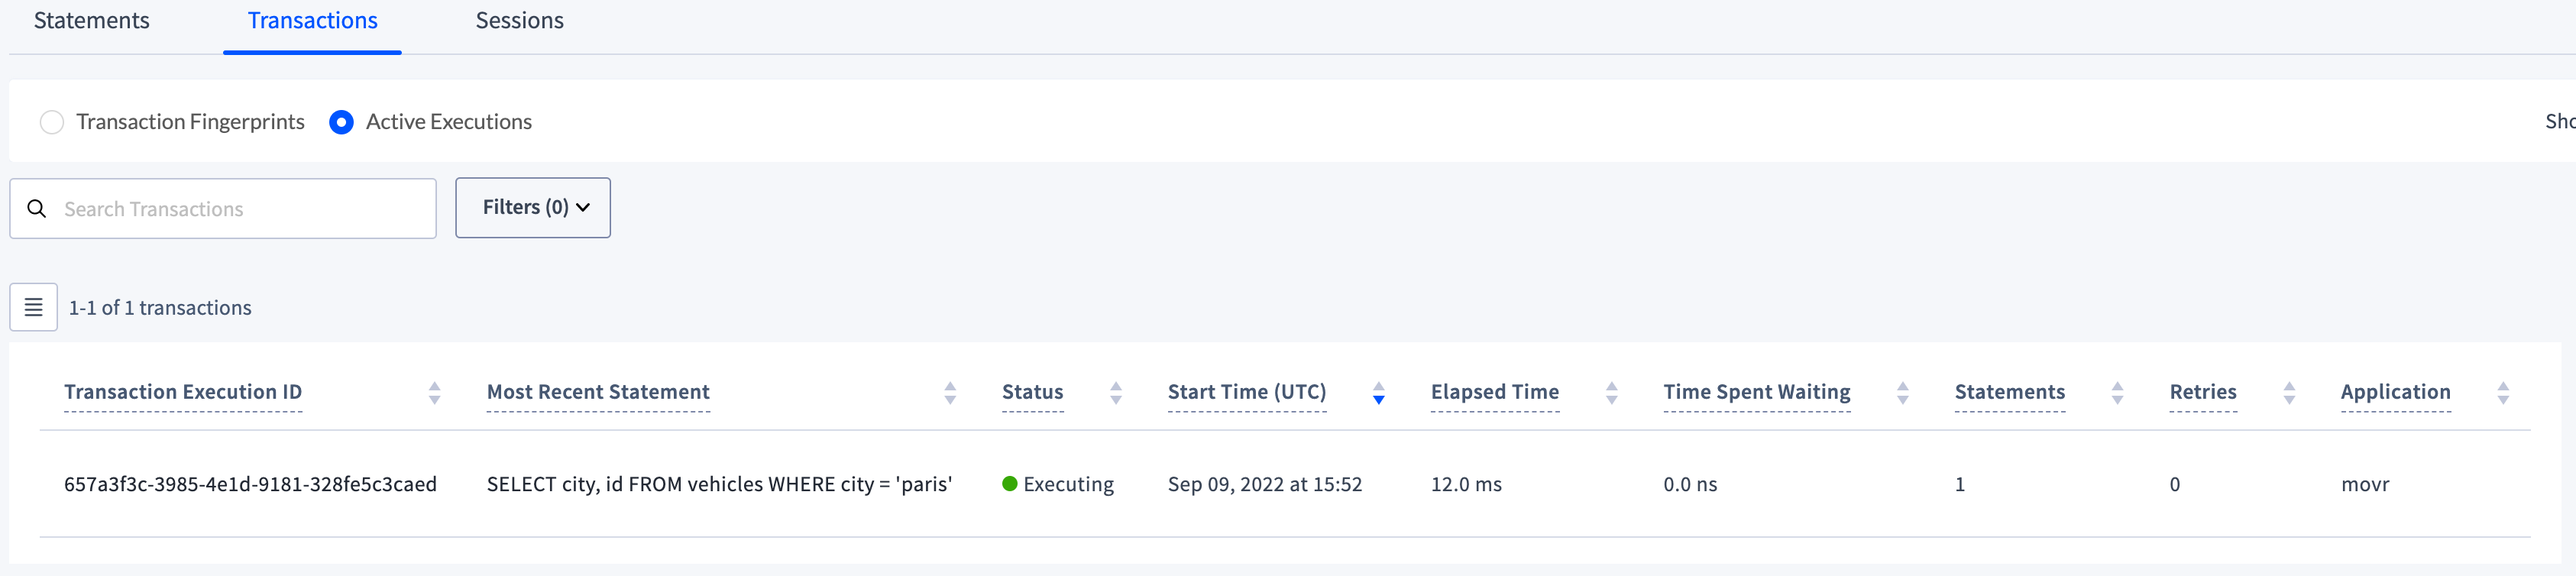
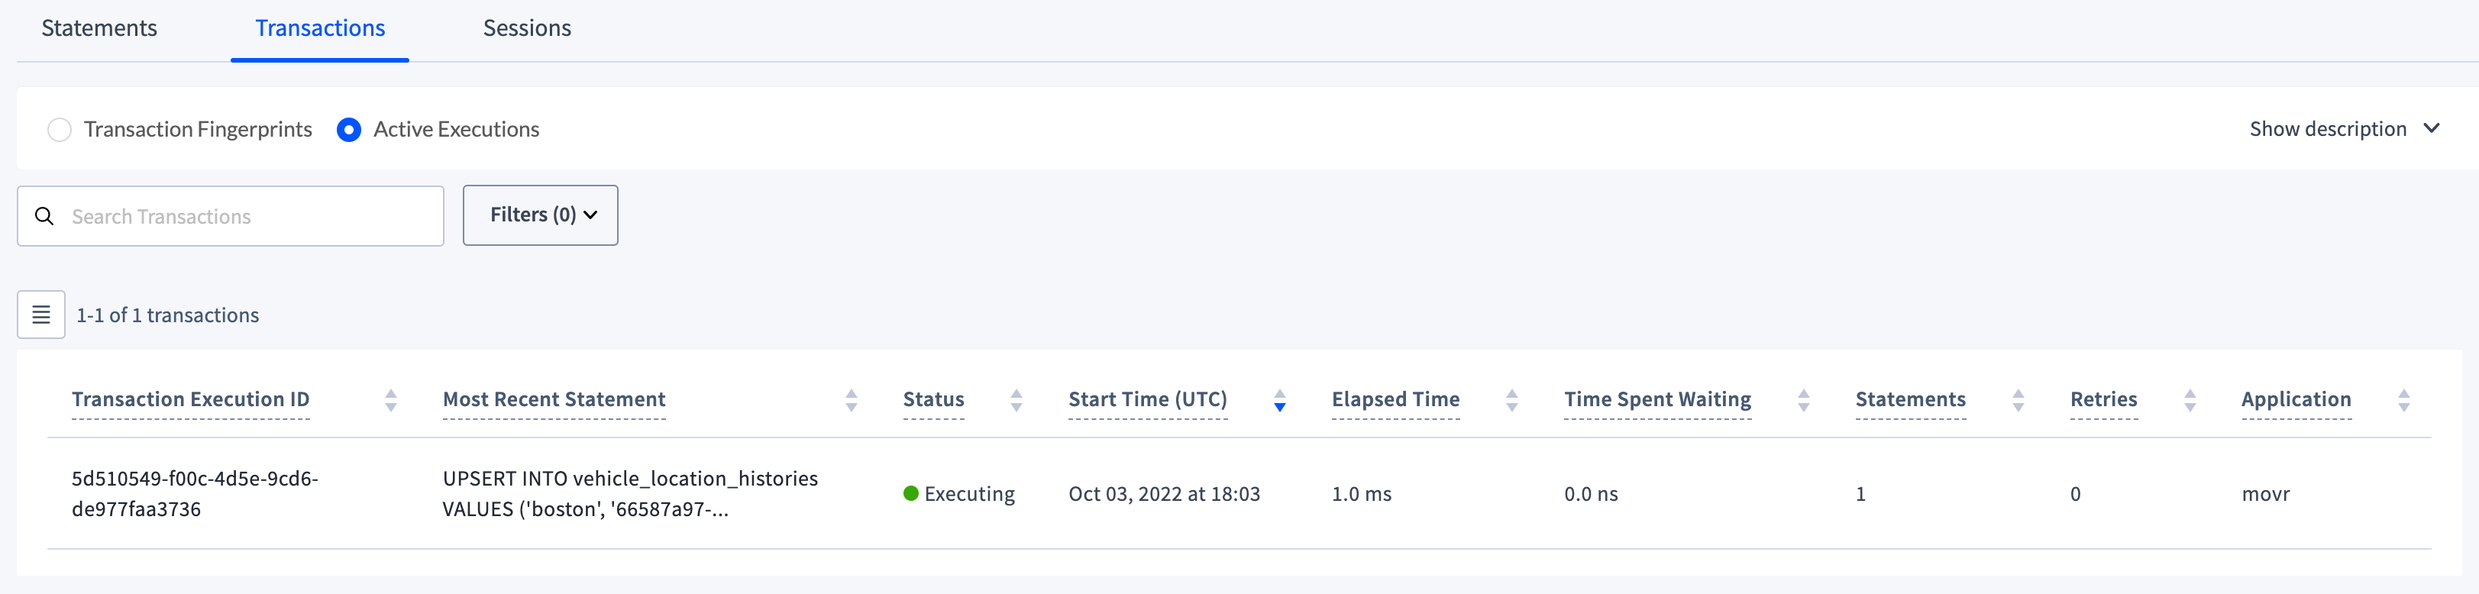
Update screenshot and prop list for removed field.

diff --git a/_includes/v22.2/ui/active-transaction-executions.md b/_includes/v22.2/ui/active-transaction-executions.md
@@ -18,15 +18,14 @@ Application | The name specified by the [`application_name`](show-vars.html#supp
 
 To view details of an active transaction execution, click an execution ID in the **Transaction Execution ID** column to open the [**Transaction Execution** details page](#transaction-execution-details-page).
 
-## Transaction Execution details page
+## Transaction execution details page
 
-The Transaction Execution details page provides the following details on the transaction execution.
+The transaction execution details page provides the following details on the transaction execution.
 
 - **Start Time (UTC)**: The timestamp when the execution started.
 - **Elapsed Time**: The time elapsed since the transaction started.
 - **Status**: The status of the execution: `Preparing`, `Waiting`, or `Executing`.
 - **Priority**: The [priority](transactions.html#transaction-priorities) of the transaction.
-- **Full Scan**: Whether the execution performed a full scan of the table.
 - **Internal Retries**: The number of retries of statements in the transaction.
 - **Last Retry Reason**: The [reason](transaction-retry-error-reference.html) for the last statement retry.
 - **Number of Statements**: The number of statements in the transaction.

diff --git a/v22.2/ui-transactions-page.md b/v22.2/ui-transactions-page.md
@@ -57,7 +57,7 @@ The **Statements** tab is selected. Click the **Transactions** tab and the **Act
 Active executions are polled every 10 seconds. Faster-running executions will potentially disappear upon each refresh.
 {{site.data.alerts.end}}
 
-The following screenshot shows the active statement execution for `SELECT city, id FROM vehicles WHERE city = 'paris'` while running the [`movr` workload](cockroach-workload.html#run-the-movr-workload):
+The following screenshot shows the active statement execution for `SELECT city, id FROM vehicles WHERE city = 'los angeles'` while running the [`movr` workload](cockroach-workload.html#run-the-movr-workload):
 
 <img src="{{ 'images/v22.2/transaction-execution.png' | relative_url }}" alt="Transaction execution" style="border:1px solid #eee;max-width:100%" />
 

diff --git a/_includes/v22.2/ui/active-statement-executions.md b/_includes/v22.2/ui/active-statement-executions.md
@@ -14,9 +14,9 @@ Application | The name specified by the [`application_name`](show-vars.html#supp
 
 To view details of an active statement execution, click an execution ID in the **Statement Execution ID** column to open the [**Statement Execution** details page](#statement-execution-details-page).
 
-## Statement Execution details page
+## Statement execution details page
 
-The Statement Execution details page provides the following details on the statement execution.
+The statement execution details page provides the following details on the statement execution.
 
 - **Start Time (UTC)**: The timestamp when the execution started.
 - **Elapsed Time**: The time elapsed since the execution started.
